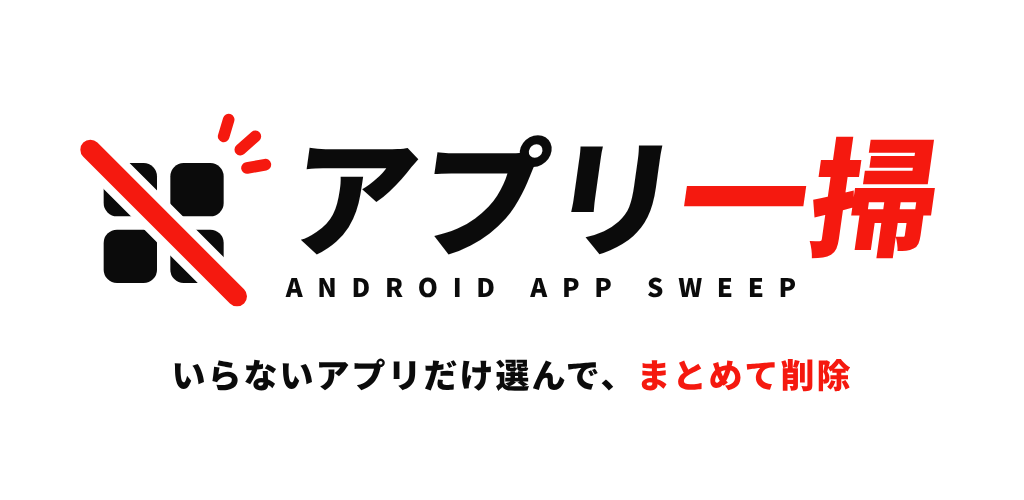
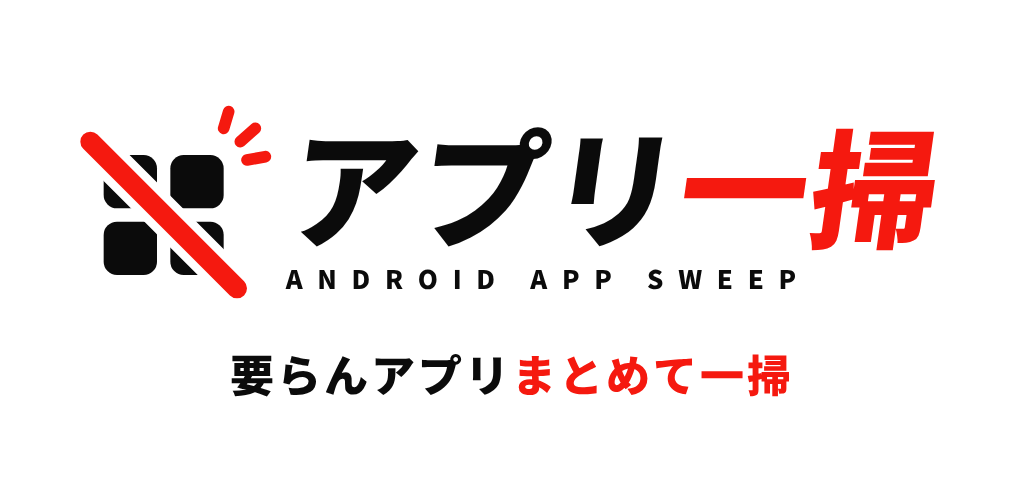
アプリ一掃: キャッチコピーを「要らんアプリまとめて一掃」に（公式サイト・ストア画像）
Claude-Session: https://claude.ai/code/session_01WQewJuRn2mGB1EbdpVRuwB

diff --git a/sweep-site/public/index.html b/sweep-site/public/index.html
@@ -3,12 +3,12 @@
 <head>
 <meta charset="utf-8">
 <meta name="viewport" content="width=device-width, initial-scale=1">
-<title>Androidアプリ一掃アプリ — いらないアプリだけ選んで、まとめて削除</title>
+<title>Androidアプリ一掃アプリ — 要らんアプリまとめて一掃</title>
 <meta name="description" content="使っていないアプリがひと目でわかる Android アプリ。いらないアプリだけチェックを外して、まとめて削除。確認つきで、誤って消しにくい作りです。">
 <link rel="icon" href="/icon.png">
 <meta property="og:title" content="Androidアプリ一掃アプリ">
 <meta property="og:image" content="https://applications.sucks/icon.png">
-<meta property="og:description" content="いらないアプリだけ選んで、まとめて削除。">
+<meta property="og:description" content="要らんアプリまとめて一掃。">
 <style>
   :root { --bg: #FFFFFF; --card: #F4F4F4; --ink: #0B0B0B; --muted: #5C5C5C; --line: #D4D4D4; --accent: #E3130A; --red: #F5190F; }
   @media (prefers-color-scheme: dark) {
@@ -56,7 +56,7 @@
 </header>
 <section class="hero">
   <img src="/icon.png" alt="Androidアプリ一掃アプリのアイコン">
-  <h1>いらないアプリ、<wbr><em>まとめて一掃。</em></h1>
+  <h1>要らんアプリ<wbr><em>まとめて一掃</em></h1>
   <p class="name">Androidアプリ一掃アプリ</p>
   <p class="lead">残すアプリはそのまま。<wbr>チェックを外したものだけ、<wbr>確認してから削除します。</p>
   <div class="badges"><span class="badge">Android 9 以上</span><span class="badge">無料・広告なし</span><span class="badge">Google Play で近日公開</span></div>

diff --git a/sweep-android/store/render-graphics.js b/sweep-android/store/render-graphics.js
@@ -36,7 +36,7 @@ const icon = `<html><body style="margin:0"><div id="x" style="width:512px;height
   ${mark(512, BLACK, '#fff', '19 21 70 70')}</div></body></html>`;
 const feature = `<html>${fonts}<body><div id="x" style="width:1024px;height:500px;background:#fff;display:flex;flex-direction:column;align-items:center;justify-content:center;gap:26px">
   <div style="display:flex;align-items:center;gap:4px">${mark(220, BLACK, '#fff')}${wordmark(BLACK, 128)}<div style="width:30px"></div></div>
-  <div style="font-size:34px;color:${BLACK};letter-spacing:2px">いらないアプリだけ選んで、<span style="color:${RED}">まとめて削除</span></div>
+  <div style="font-size:44px;color:${BLACK};letter-spacing:3px">要らんアプリ<span style="color:${RED}">まとめて一掃</span></div>
 </div></body></html>`;
 
 (async () => {
